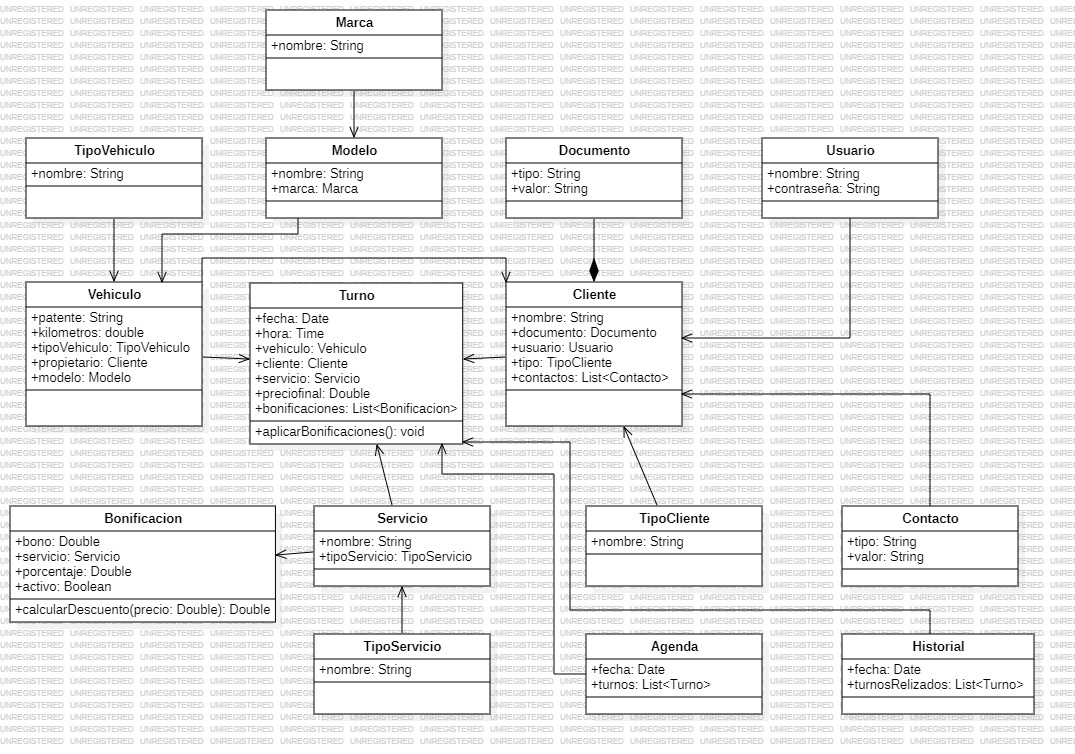
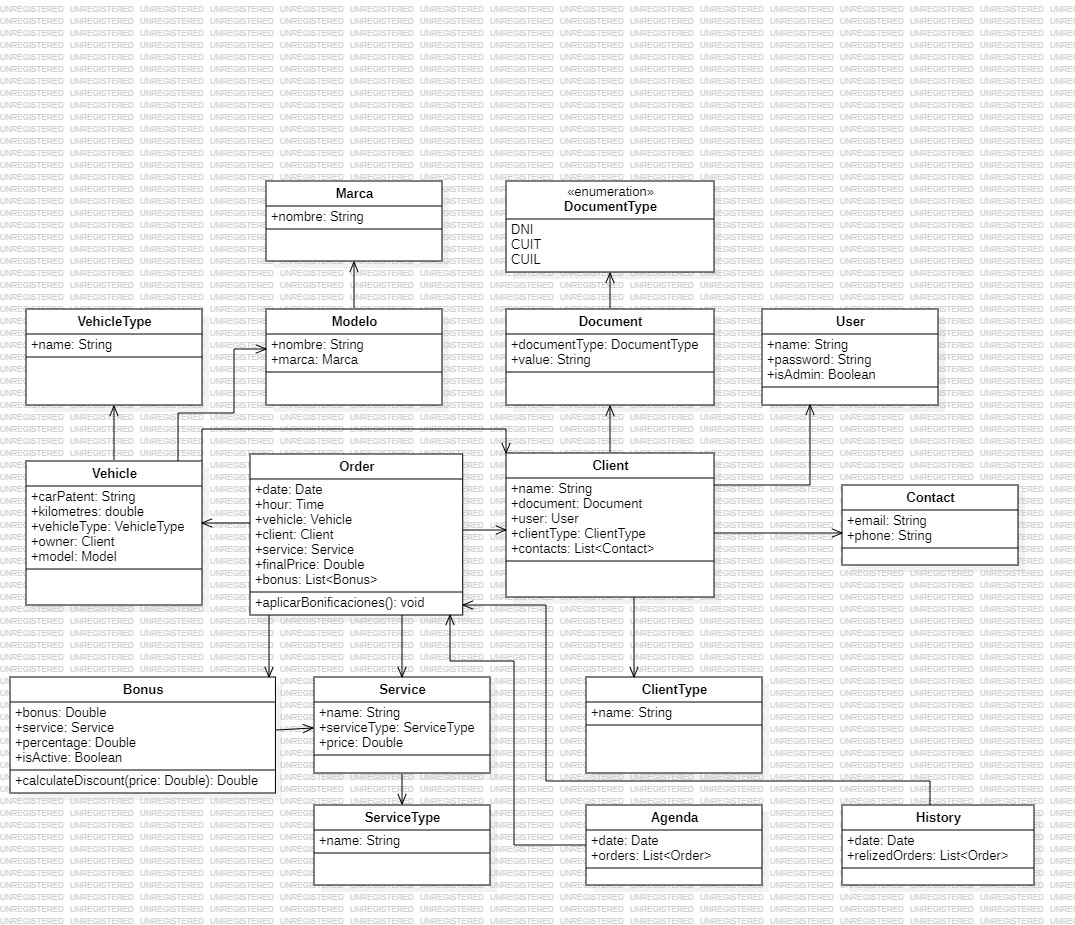
Avance en los Modelos

diff --git a/src/main/java/com/Certant/servicio/del/automotor/models/entities/Client.java b/src/main/java/com/Certant/servicio/del/automotor/models/entities/Client.java
@@ -1,9 +1,6 @@
 package com.Certant.servicio.del.automotor.models.entities;
 
-import jakarta.persistence.CascadeType;
-import jakarta.persistence.Entity;
-import jakarta.persistence.Id;
-import jakarta.persistence.OneToMany;
+import jakarta.persistence.*;
 import lombok.Getter;
 import lombok.Setter;
 
@@ -16,8 +13,11 @@ public class Client {
     @Id
     private Long id;
     private String name;
+    @OneToOne
+    @Column(unique = true)
     private Document document;
-    @OneToMany(mappedBy = "entity", cascade = CascadeType.ALL)
+    @OneToMany
     private List<Contact> contatList;
+    @OneToOne
     private ClientType clientType;
 }

diff --git a/src/main/java/com/Certant/servicio/del/automotor/models/entities/Order.java b/src/main/java/com/Certant/servicio/del/automotor/models/entities/Order.java
@@ -1,0 +1,30 @@
+package com.Certant.servicio.del.automotor.models.entities;
+
+import jakarta.persistence.*;
+import lombok.Data;
+
+import java.sql.Time;
+import java.util.Date;
+import java.util.List;
+
+@Data
+@Entity
+public class Order {
+    @Id
+    private Long id;
+    private Date date;
+    private Time hour;
+    @ManyToOne
+    private Vehicle vehicle;
+    @ManyToOne
+    private Client client;
+    @ManyToOne
+    private Service service;
+    private Double finalPrice;
+    @ManyToMany
+    private List<Bonus> bonus;
+
+    public void aplyBonus(){
+        //TODO
+    }
+}

diff --git a/src/main/java/com/Certant/servicio/del/automotor/models/entities/History.java b/src/main/java/com/Certant/servicio/del/automotor/models/entities/History.java
@@ -1,0 +1,20 @@
+package com.Certant.servicio.del.automotor.models.entities;
+
+import jakarta.persistence.Entity;
+import jakarta.persistence.FetchType;
+import jakarta.persistence.Id;
+import jakarta.persistence.OneToMany;
+import lombok.Data;
+
+import java.util.Date;
+import java.util.List;
+
+@Data
+@Entity
+public class History {
+    @Id
+    private Long id;
+    private Date date;
+    @OneToMany(fetch  = FetchType.EAGER,mappedBy = "date")
+    private List<Order> realizedOrders;
+}

diff --git a/src/main/java/com/Certant/servicio/del/automotor/models/entities/Agenda.java b/src/main/java/com/Certant/servicio/del/automotor/models/entities/Agenda.java
@@ -1,0 +1,20 @@
+package com.Certant.servicio.del.automotor.models.entities;
+
+import jakarta.persistence.Entity;
+import jakarta.persistence.FetchType;
+import jakarta.persistence.Id;
+import jakarta.persistence.OneToMany;
+import lombok.Data;
+
+import java.util.Date;
+import java.util.List;
+
+@Data
+@Entity
+public class Agenda {
+    @Id
+    private Long id;
+    private Date date;
+    @OneToMany(fetch  = FetchType.EAGER,mappedBy = "date")
+    private List<Order> orders;
+}

diff --git a/src/main/java/com/Certant/servicio/del/automotor/models/entities/Vehicle.java b/src/main/java/com/Certant/servicio/del/automotor/models/entities/Vehicle.java
@@ -1,9 +1,20 @@
 package com.Certant.servicio.del.automotor.models.entities;
 
+import jakarta.persistence.*;
+import lombok.Data;
+
+@Data
+@Entity
 public class Vehicle {
-    private String carPatente;
+    @Id
+    private Long id;
+    @Column(unique = true)
+    private String carPatent;
     private double kilometres;
+    @ManyToOne
     private VehicleType vehicleType;
+    @ManyToOne
     private Client owner;
+    @ManyToOne
     private Model model;
 }

diff --git a/src/main/java/com/Certant/servicio/del/automotor/models/entities/User.java b/src/main/java/com/Certant/servicio/del/automotor/models/entities/User.java
@@ -1,5 +1,6 @@
 package com.Certant.servicio.del.automotor.models.entities;
 
+import jakarta.persistence.Column;
 import jakarta.persistence.Entity;
 import jakarta.persistence.Id;
 import lombok.Setter;
@@ -9,6 +10,8 @@ import lombok.Setter;
 public class User {
     @Id
     private Long id;
+    @Column(unique = true)
+    private String userName;
     private String password;
     private Boolean isAdmin;
 }

diff --git a/src/main/java/com/Certant/servicio/del/automotor/models/entities/ServiceType.java b/src/main/java/com/Certant/servicio/del/automotor/models/entities/ServiceType.java
@@ -2,11 +2,14 @@ package com.Certant.servicio.del.automotor.models.entities;
 
 import jakarta.persistence.Column;
 import jakarta.persistence.Entity;
+import jakarta.persistence.Id;
 import lombok.Data;
 
 @Data
 @Entity
-public class Brand {
+public class ServiceType {
+    @Id
+    private Long id;
     @Column(unique = true)
     private String name;
 }

diff --git a/src/main/java/com/Certant/servicio/del/automotor/models/entities/Bonus.java b/src/main/java/com/Certant/servicio/del/automotor/models/entities/Bonus.java
@@ -7,10 +7,12 @@ import lombok.Data;
 
 @Data
 @Entity
-public class Model {
+public class Bonus {
     @Id
     private Long id;
-    private String name;
+    private double bonus;
     @ManyToOne
-    private Brand brand;
+    private Service service;
+    private double percentaje;
+    private boolean isActive;
 }

diff --git a/src/main/java/com/Certant/servicio/del/automotor/models/entities/ClientType.java b/src/main/java/com/Certant/servicio/del/automotor/models/entities/ClientType.java
@@ -1,8 +1,12 @@
 package com.Certant.servicio.del.automotor.models.entities;
 
-import lombok.Setter;
+import jakarta.persistence.Column;
+import jakarta.persistence.Entity;
+import lombok.Data;
 
-@Setter
+@Data
+@Entity
 public class ClientType {
+    @Column(unique = true)
     private String name;
 }

diff --git a/src/main/java/com/Certant/servicio/del/automotor/models/entities/Document.java b/src/main/java/com/Certant/servicio/del/automotor/models/entities/Document.java
@@ -2,9 +2,10 @@ package com.Certant.servicio.del.automotor.models.entities;
 
 import com.Certant.servicio.del.automotor.models.enums.DocumentType;
 import jakarta.persistence.*;
+import lombok.Data;
 import lombok.Setter;
 
-@Setter
+@Data
 @Entity
 public class Document {
     @Id

diff --git a/src/main/java/com/Certant/servicio/del/automotor/models/entities/Service.java b/src/main/java/com/Certant/servicio/del/automotor/models/entities/Service.java
@@ -7,10 +7,11 @@ import lombok.Data;
 
 @Data
 @Entity
-public class Model {
+public class Service {
     @Id
     private Long id;
     private String name;
     @ManyToOne
-    private Brand brand;
+    private ServiceType serviceType;
+    private double price;
 }

diff --git a/src/main/java/com/Certant/servicio/del/automotor/models/entities/VehicleType.java b/src/main/java/com/Certant/servicio/del/automotor/models/entities/VehicleType.java
@@ -1,5 +1,8 @@
 package com.Certant.servicio.del.automotor.models.entities;
 
+import jakarta.persistence.Column;
+
 public class VehicleType {
+    @Column(unique = true)
     private String name;
 }
